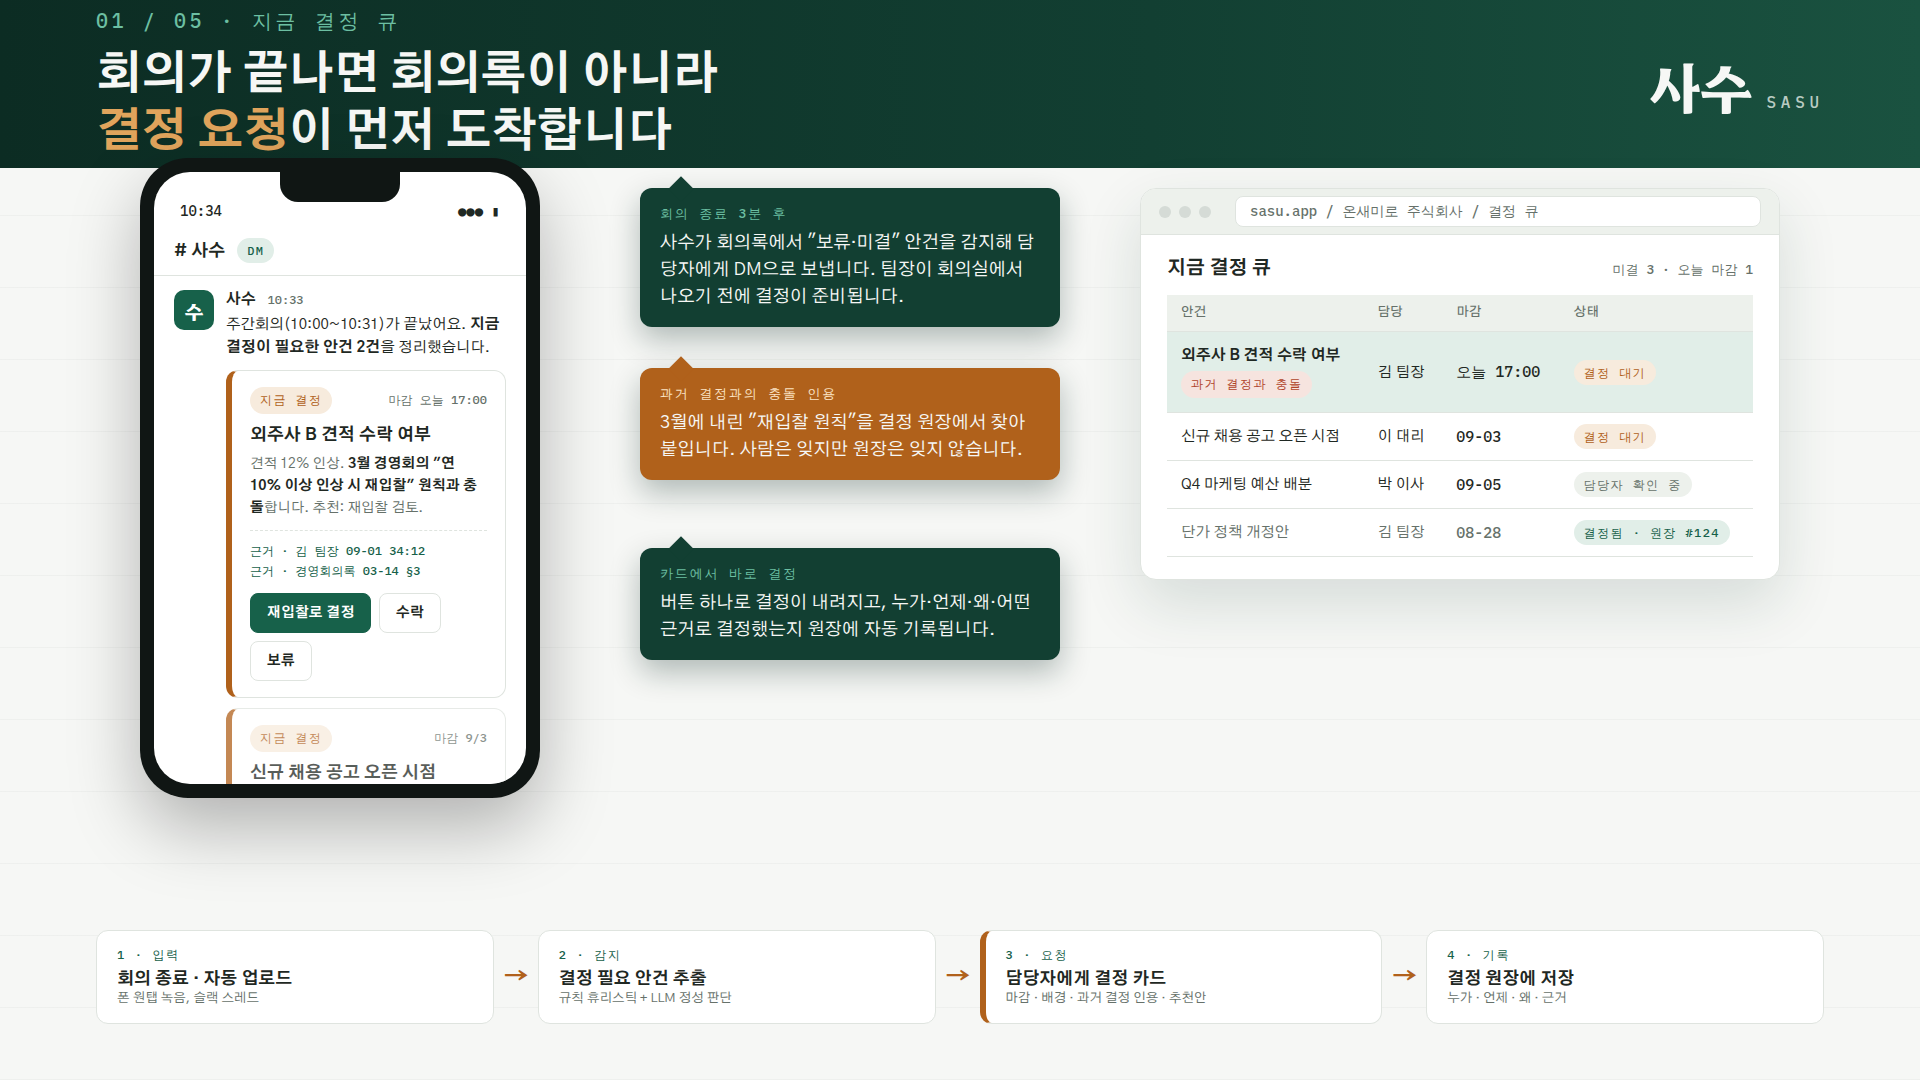
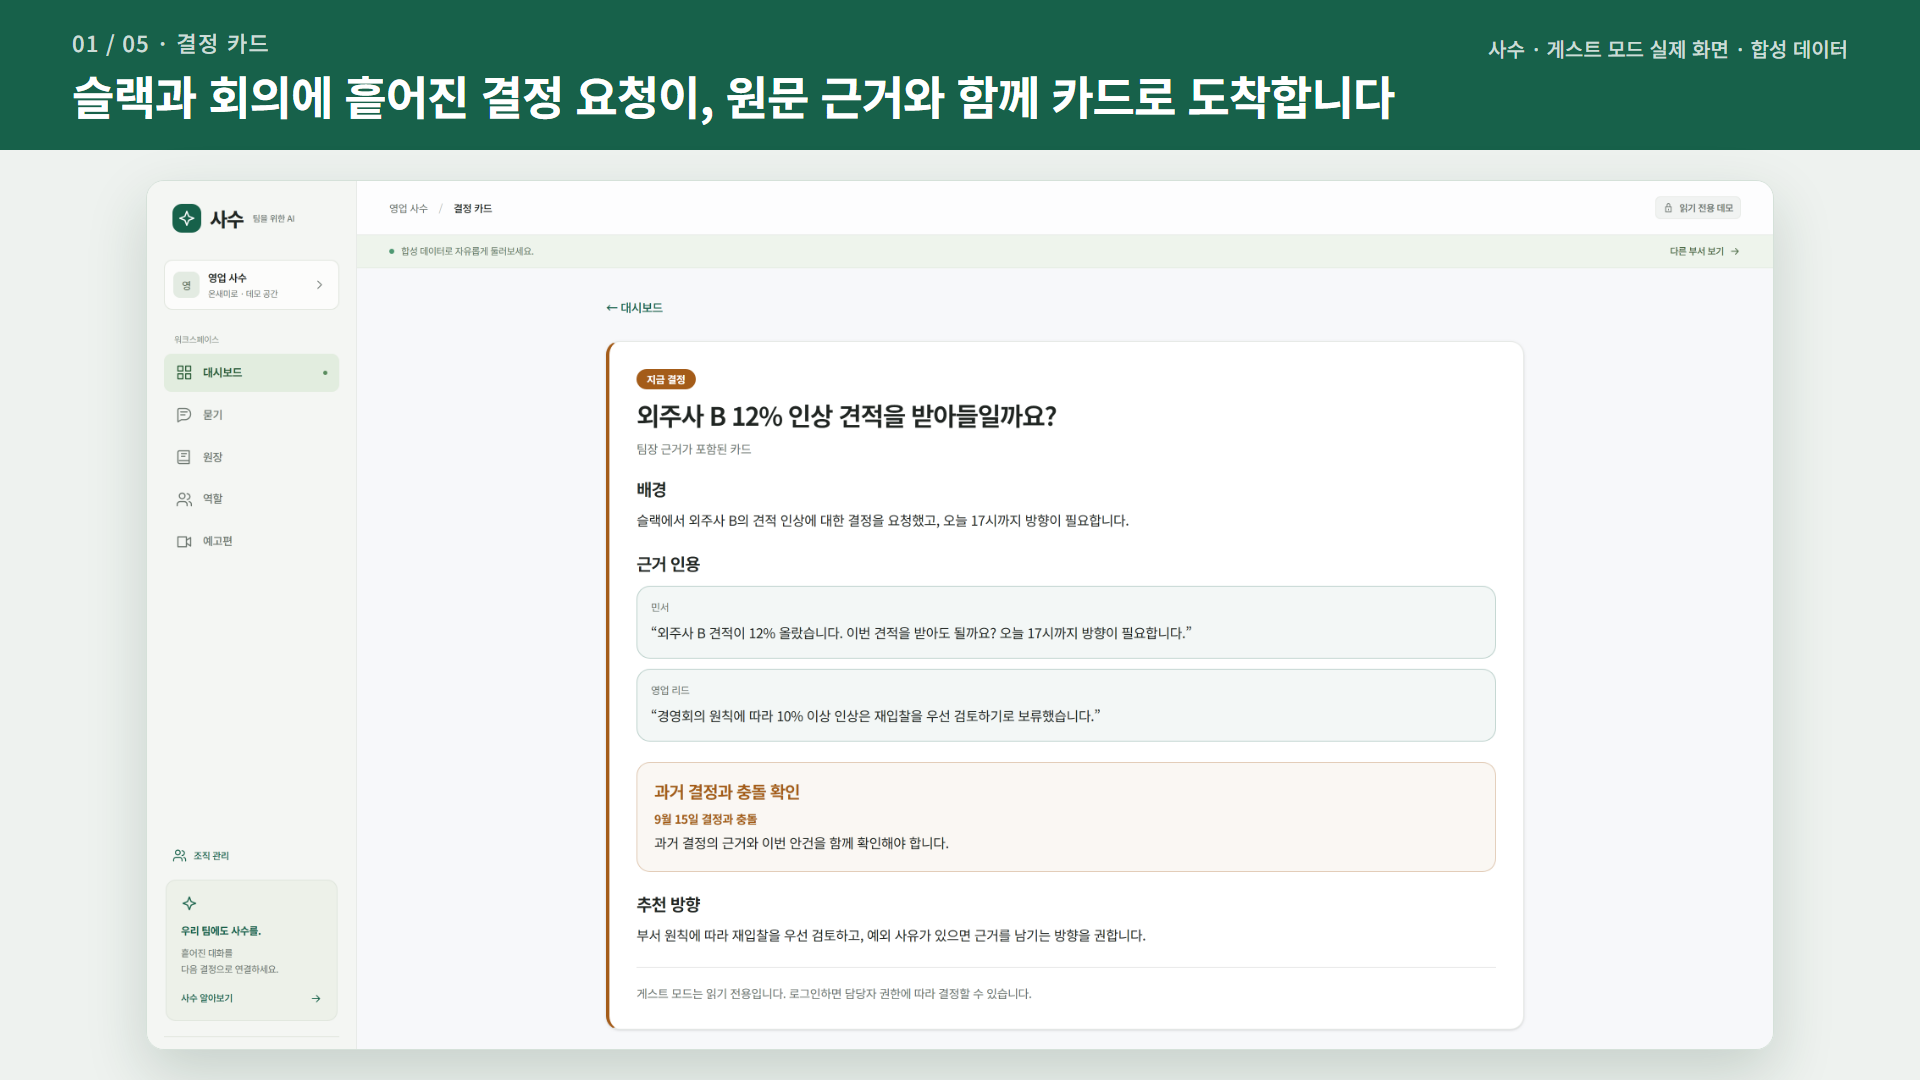
docs(submission): replace screenshots with production guest-mode captures
The five submission slides predated the UI refresh. They are now captured
from production guest mode (dpl_Hq6oWYaRH9BqxRZD3ScRzZQgQLMq, synthetic
demo org, no writes or LLM calls) at 2x and composed into 1920x1080
slides with the green caption band and a "real guest screen / synthetic
data" label: decision card, grounded answer vs general AI, sales vs dev
answers to the same question, dashboard, and the design team ledger.

Checklist 7 now lists the actual scenes and captions and records what
changed from the v3 concept under ADR-043: a web card instead of a Slack
DM mockup, and the general-AI comparison instead of a lead/member split,
since the guest lead/member questions cite only department-wide Slack.

Claude-Session: https://claude.ai/code/session_019fPwXk95aY51KVhtH8r9w1

diff --git a/docs/submission-checklist.md b/docs/submission-checklist.md
@@ -23,7 +23,7 @@
 | 4 | AI 활용 방식 및 결과 | **500자 이내** (공백 포함 여부 미표기 → 공백 포함 500자 아래로) | §5 | 9/19 | ☐ |
 | 5 | 사용 AI툴 및 기술 스택 | 자유 | §6 | 9/19 | ☐ |
 | 6 | 서비스 링크 | 심사 기간 내내 접속 가능 (불가 시 심사 제외) | Vercel 프로덕션 URL, `/demo` 게스트 모드 | 9/18 부하 테스트 후 확정 | ☐ |
-| 7 | 스크린샷 | **최대 5개, 16:9** | §7 구상대로 게스트 모드에서 1920×1080 캡처 | 9/19 | ☐ |
+| 7 | 스크린샷 | **최대 5개, 16:9** | `submission/screenshots/sasushot1~5.png`(1920×1080) — 9/15 운영 게스트 모드 캡처로 교체(§7). UI가 다시 바뀌면 재촬영 | 9/19 | ☐ |
 
 **가산 자료(양식 밖)**: 3분 데모 영상은 양식에 항목이 없다. 서비스 링크 랜딩(`/`)에 영상 링크를 두는 것으로 대체 — §8 구간표대로 촬영은 한다(데모데이·백업용).
 
@@ -69,19 +69,27 @@
 
 ---
 
-## 7. 스크린샷 5장 (16:9) — v3 구상
+## 7. 스크린샷 5장 (16:9) — 9/15 실제 캡처본
 
-각 장은 "한 문장 캡션이 곧 기능 설명"이 되도록. 게스트 모드(온새미로 주식회사) 화면 캡처 + 상단에 짧은 캡션 띠(썸네일과 같은 심녹색·같은 서체). 심사위원이 앞 두 장만 볼 확률이 높으므로 1·2번을 가장 강하게.
+각 장은 "한 문장 캡션이 곧 기능 설명"이 되도록 했다. 운영 URL 게스트 모드(온새미로 주식회사) 화면 캡처 + 상단 캡션 띠(썸네일과 같은 심녹색) + 오른쪽 위 "게스트 모드 실제 화면 · 합성 데이터" 표기. 심사위원이 앞 두 장만 볼 확률이 높으므로 1·2번을 가장 강하게.
 
-| # | 화면 | 프레임 안에 보이는 것 | 캡션 | PRD 장면 |
-|---|---|---|---|---|
-| 1 | **지금 결정 카드 (슬랙 DM)** | 폰 목업 안 슬랙 DM — "지금 결정" 호박색 배지, 마감, 배경, 근거 인용 칩, **"3월 14일 경영회의 §3 원칙과 충돌"**, 추천 방향, [결정 / 보류 / 반려] 버튼 | "회의가 끝나면 회의록이 아니라 결정 요청이 먼저 도착합니다" | 3 |
-| 2 | **권한별로 다른 답 (2분할)** | 같은 질문 "외주사 B 견적 어떻게 됐어요?"를 좌 팀장 / 우 팀원 계정으로 — 팀장 답엔 경영회의 인용, 팀원 답엔 원장 인용만 + 고정 문구 "내 권한 범위 안의 부서 기록만 참고했습니다". 아래에 범용 AI 답 나란히 | "같은 질문, 다른 답 — 사수는 알 자격이 있는 사람에게만 말합니다" | 4 |
-| 3 | **부서가 다르면 답이 다르다 (2분할)** | "단가 정책 어떻게 잡죠?"를 영업 사수 / 개발 사수에게 — 각자 자기 부서 원칙 문서를 인용 | "회사 전체를 아는 AI는 없습니다. 사수는 우리 부서를 압니다" | 4' |
-| 4 | **결정 원장** | 결정 목록(상태·담당자·리드타임) + 상세 패널(누가·언제·왜·근거 링크). 한 항목에 "과거 결정과 충돌" 배지, 한 항목에 "마감 지남" | "부서의 모든 결정이 누가·왜·무슨 근거로 내려졌는지 남습니다" | 5 |
-| 5 | **분류 대시보드 + 게스트 진입** | 좌: 슬랙 N건·회의 1건·문서 N건이 결정 필요/액션/정보/잡담으로 나뉜 S1 + 회의 탭 / 우: `/demo` 랜딩 "온새미로 주식회사에 물어보세요" | "수집·검색까지는 남들도 합니다 — 사수는 여기서 시작합니다. 로그인 없이 지금 체험하세요" | 2 |
+| # | 파일 | 화면 | 프레임 안에 보이는 것 | 캡션 | PRD 장면 |
+|---|---|---|---|---|---|
+| 1 | `sasushot1.png` | 영업 사수 결정 카드(웹) | "지금 결정" 배지, "외주사 B 12% 인상 견적을 받아들일까요?", 배경, 슬랙(민서)·회의(영업 리드) 원문 인용, "과거 결정과 충돌 확인", 추천 방향 | "슬랙과 회의에 흩어진 결정 요청이, 원문 근거와 함께 카드로 도착합니다" | 3 |
+| 2 | `sasushot2.png` | 영업 사수 묻기(질문 목록·답변 확대) | "외주사 B 견적을 받아도 되나요?" — 사수 답(12% 인상안·10% 이상 인상 시 재입찰 원칙) + 슬랙 원문 인용 + 범용 AI 답 비교 | "같은 질문에 범용 AI는 일반론을, 사수는 우리 부서의 기록을 인용해 답합니다" | 4 |
+| 3 | `sasushot3.png` | 영업 / 개발 사수 답변 2분할 | 같은 질문 "언제까지 결정해야 하나요?" — 영업은 외주사 B 견적의 17시 마감, 개발은 오늘 배포 여부를 각자 부서 슬랙 인용으로 답한다. 범용 AI 답은 둘 다 같다 | "회사 전체를 아는 AI는 없습니다. 사수는 우리 부서를 압니다" | 4' |
+| 4 | `sasushot4.png` | 영업 사수 대시보드 | 슬랙 2·회의 1·문서 1건, 결정 카드 1건, 분류된 기록(결정 필요·액션·정보 탭) | "흩어진 대화가 오늘 살펴볼 결정 카드와 분류된 기록으로 정리됩니다" | 2 |
+| 5 | `sasushot5.png` | 디자인팀 사수 원장 | 결정 완료 3건 — 무엇을 정했는지·결정자·날짜·이유 | "내려진 결정은 무엇을, 왜 정했는지와 함께 부서 원장에 남습니다" | 5 |
 
-**촬영 원칙**: 합성 데이터만(우리 팀 실데이터 금지 — 유의사항 개인정보·비밀정보) · 5장 모두 같은 브라우저 크기 1920×1080 · 컷 ⑤(DM 버튼) 발동 시 1번은 웹 카드로 · 컷 ④(회의 탭) 발동 시 5번은 분류 탭만.
+**v3 구상에서 바뀐 점** — ADR-043(제품 화면은 게스트 모드 실제 캡처만)에 맞췄다.
+- 1번: 폰 목업 속 슬랙 DM → 웹 결정 카드. 게스트 모드에는 슬랙 DM 화면이 없고 목업은 만들지 않는다. 게스트는 읽기 전용이라 [결정 / 보류 / 반려] 버튼도 없다.
+- 2번: 팀장/팀원 2분할 → 사수 답과 범용 AI 답 비교. 게스트 모드에는 권한별 답을 실제로 나눠 보여주는 화면이 없다. 디자인팀 준비 질문 "팀장이 보는… / 팀원이 보는…"은 두 답의 인용 원문이 모두 부서 전체 공개 슬랙이라 권한 차이의 증거로 쓰지 않았다. 권한별 답은 §5 본문과 검증 기록으로 말한다.
+- 3번: "단가 정책 어떻게 잡죠?" → 게스트에 준비된 "언제까지 결정해야 하나요?". 원칙 문서 대신 각 부서 슬랙 기록을 인용한다.
+- 4·5번: 원장과 대시보드 순서를 바꿨다(카드 → 답 → 부서 → 대시보드 → 원장). 원장에는 "과거 결정과 충돌"·"마감 지남" 배지가 없어 캡션에서 뺐고(충돌 표시는 1번 카드에 있다), `/demo` 입구 화면은 넣지 않았다.
+
+**촬영 기록**: 2026-09-15 16시 KST, 운영 배포 `dpl_Hq6oWYaRH9BqxRZD3ScRzZQgQLMq`의 게스트 경로(쓰기·LLM 호출 없음)를 2배 해상도로 캡처해 1920×1080 슬라이드로 합성했다. 창 크기 1920×1080, 3번 답변 패널만 인용문이 한 줄에 들어가도록 1230px 폭 데스크톱 레이아웃에서 찍었다.
+
+**촬영 원칙**: 합성 데이터만(우리 팀 실데이터 금지 — 유의사항 개인정보·비밀정보) · 게스트 모드 실제 화면만(HTML 재현·목업 금지) · 제출 전에 UI가 다시 바뀌면 같은 구성으로 다시 찍는다.
 
 ---
 
